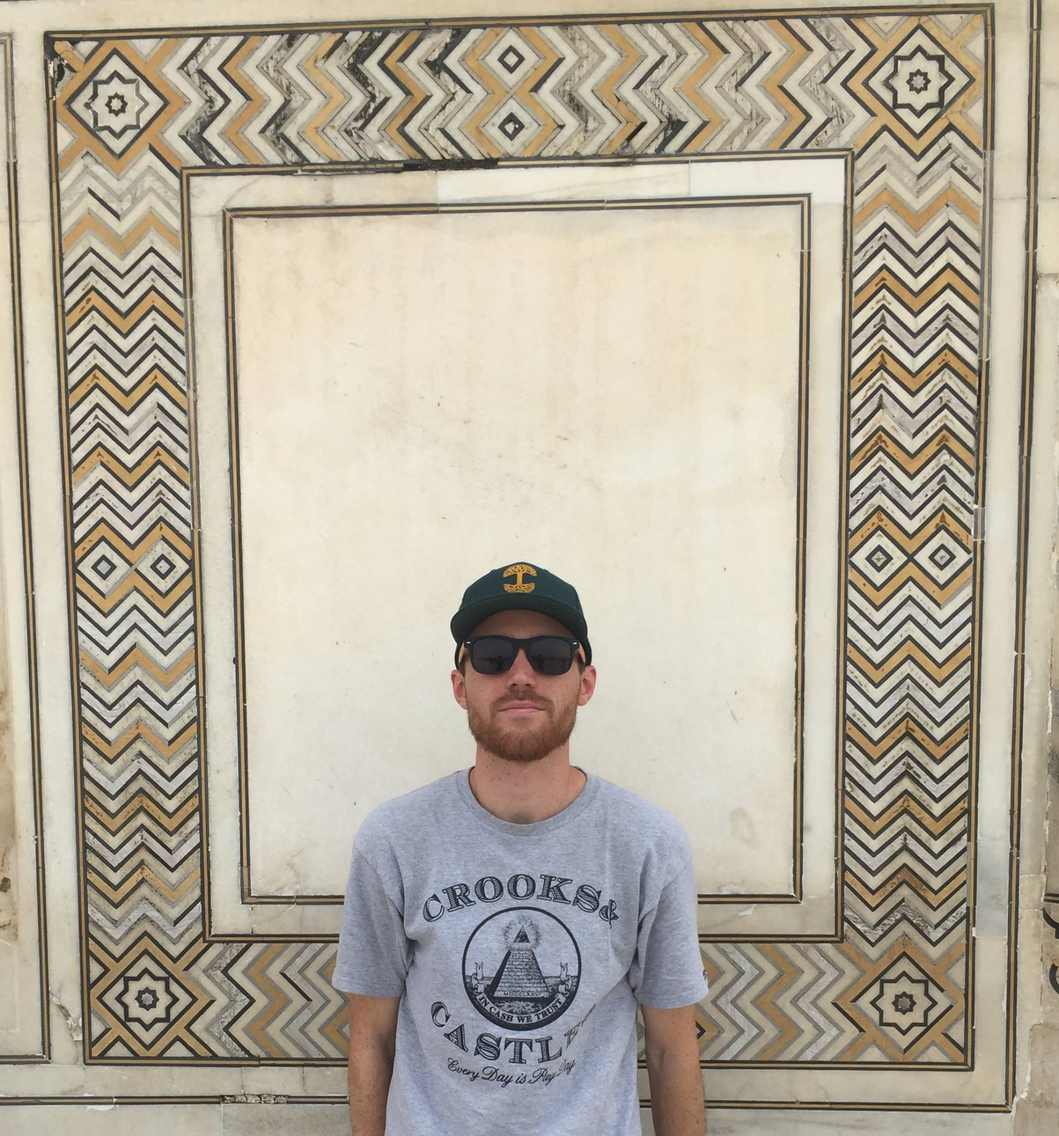
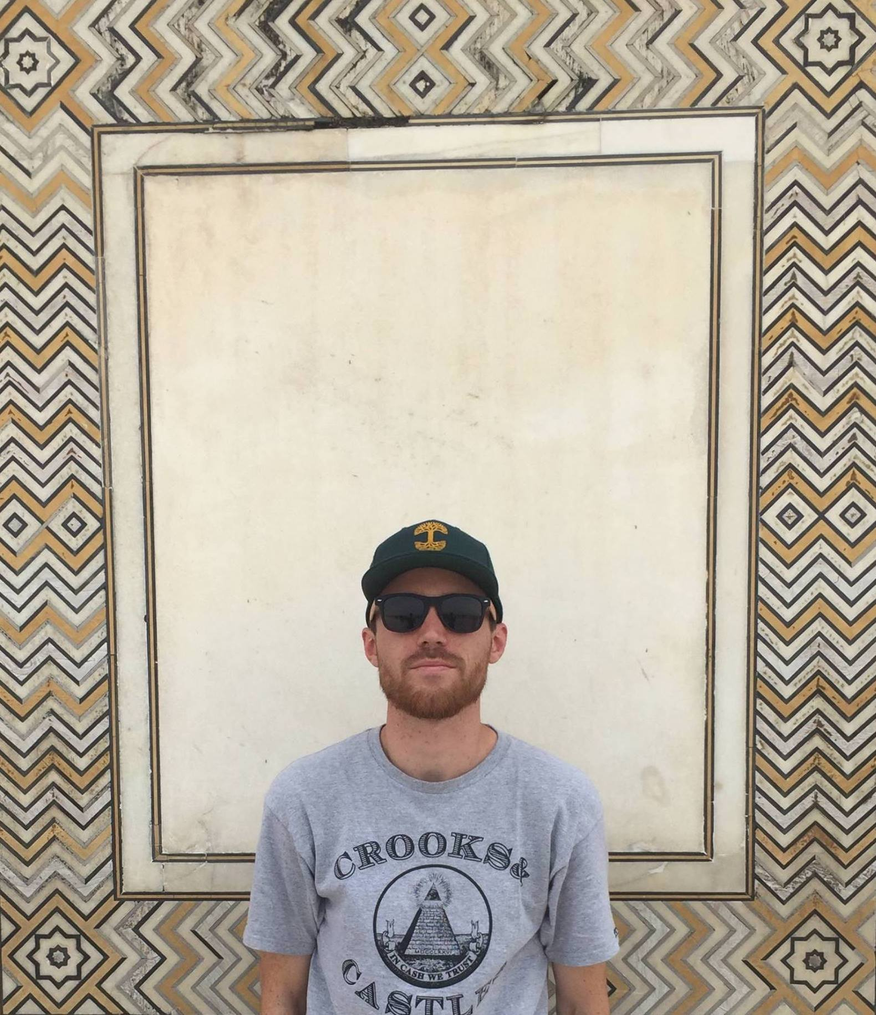
styling changes

diff --git a/src/components/Portfolio.vue b/src/components/Portfolio.vue
@@ -5,10 +5,8 @@
         <img :src="project.image" class='img'/>
       </div>
       <h2>{{ project.title }}</h2>
-        {{ project.description }}
-        <br><br>
-        <strong>Stack:</strong>
-        {{ project.stack }}
+        <p>{{ project.description }}</p>
+        <p>{{ project.stack }}</p>
     </div>
   </div>
 </template>
@@ -29,21 +27,21 @@ export default {
         MyBolus: {
           id: 2,
           title: 'My Bolus',
-          description: 'Personalized insulin dose calculator application for diabetics',
+          description: 'Insulin dose calculator for diabetics',
           stack: 'HTML, CSS, Javascript, React, Express, MongoDB',
           image: require('../images/bolus-calculator.png')
         },
         OpenRestaurant: {
           id: 3,
           title: 'Open Restaurant',
-          description: 'Restaurant review and reservation application',
+          description: 'Photos module for restaurant app',
           stack: ' HTML, CSS, Javascript, React, Styled-Components, Express, MongoDB, Faker, Jest, Enzyme',
           image: require('../images/open-restaurant.png')
         },
         SocialInn: {
           id: 4,
           title: 'Social Inn',
-          description: 'Room review and reservation application',
+          description: 'Scaled back end of housing app',
           stack: 'PostgreSQL, Cassandra, Express, Amazon Web Services, k6, New Relic',
           image: require('../images/social-inn.png')
         }
@@ -56,24 +54,33 @@ export default {
 <style scoped>
   h2 {
     margin: 10px 0px 10px 0px;
+    color: black;
   }
   .projects-wrapper {
     margin-top: 150px;
     margin-left: 100px;
-    position: fixed;
+    position: absolute;
   }
   .project {
     border: 1px solid;
     width: 300px;
-    background-color: white;
+    height: 300px;
+    background-color: white; opacity: .70;
     margin: 20px;
     padding: 10px;
+    float: left;
     display: inline-block;
+  }
+  .project:hover {
+    -webkit-transform: scale(1.01);
+    -ms-transform: scale(1.05);
+    transform: scale(1.05);
+    cursor: pointer;
   }
   .img-div {
     width: 100%;
     height: 150px;
-    border: 1px solid;
+    border: 1px solid black;
   }
   .img {
     width: 100%;
@@ -82,5 +89,6 @@ export default {
   p {
     font-size: 14px;
     line-height: normal;
+    color: black;
   }
 </style>

diff --git a/src/components/Home.vue b/src/components/Home.vue
@@ -1,9 +1,9 @@
 <template>
   <div id='home-wrapper'>
     <img :src='pic' id='pic'/>
-    <div id='titleSection'>
-      <h1 class='words'>{{ name }}</h1>
-      <h3 class='words'>{{ title }}</h3>
+    <div class='words-wrapper'>
+      <h1 class='words left'>{{ name }}</h1>
+      <h4 class='words right'>{{ title }}</h4>
     </div>
   </div>
 </template>
@@ -13,9 +13,9 @@ export default {
   name: 'Home',
   data () {
     return {
-      pic: require('../images/matt-taj.jpg'),
+      pic: require('../images/matt-violet.jpg'),
       title: "Software Engineer",
-      name: "Matthew Violet"
+      name: "Matt Violet"
     }
   }
 }
@@ -27,6 +27,15 @@ export default {
     margin-right: auto;
     width: 250px;
   }
+  h1 {
+    margin-top: 10px;
+    margin-bottom: 0;
+    text-align: center;
+  }
+  h4 {
+    margin: 0;
+    text-align: center;
+  }
   #pic {
     height: 200px;
     width: 200px;
@@ -35,25 +44,35 @@ export default {
     display: block;
     margin-left: auto;
     margin-right: auto;
-    animation-duration: 1s;
+    animation-duration: .75s;
     animation-name: slideDown;
   }
   #titleSection {
     text-align: center;
     width: 250px;
     margin-top: 10px;
-    animation-duration: 1s;
-    animation-name: slideUp;
   }
   .words {
-    margin: 0px;
+    margin-top: 5;
+  }
+  .left {
+    animation-duration: .75s;
+    animation-name: slideLeft;
+  }
+  .right {
+    animation-duration: .75s;
+    animation-name: slideRight;
   }
   @keyframes slideDown {
-    from { transform: translateY(-1200px); }
+    from { transform: translateY(-500px); }
     to { transform: translateY(0px); }
   }
-  @keyframes slideUp {
-    from { transform: translateY(1200px); }
-    to { transform: translateY(0px); }
+  @keyframes slideRight {
+    from { transform: translateX(-1000px); }
+    to { transform: translateX(0px); }
+  }
+  @keyframes slideLeft {
+    from { transform: translateX(1000px); }
+    to { transform: translateX(0px); }
   }
 </style>

diff --git a/src/components/About.vue b/src/components/About.vue
@@ -1,11 +1,11 @@
 <template>
   <div class="about-wrapper">
-    <div class="left outer">
+    <div class="leftt outer">
       <div class="inner-left">
         <img :src="aboutPic" class="aboutPic"/>
       </div>
     </div>
-    <div class="right outer">
+    <div class="rightt outer">
       <div class="inner-right">
         <h1>about me</h1>
         <p>
@@ -25,8 +25,7 @@ export default {
   name: 'About',
   data() {
     return {
-      aboutPic: require('../images/matt-violet.jpg'),
-      bio: ''
+      aboutPic: require('../images/matt-taj.jpg'),
     }
   }
 }
@@ -34,8 +33,9 @@ export default {
 
 <style scoped>
   h1 {
-    font-size: 40px;
+    font-size: 50px;
     margin: 0;
+    text-align: left;
   }
   p {
     font-size: 14px;
@@ -50,20 +50,18 @@ export default {
     bottom: 0;
     overflow-x: hidden;
   }
-  .left {
+  .leftt {
     left: 0;
-    background-color: gainsboro;
   }
-  .right {
+  .rightt {
     right: 0;
-    background-color: gainsboro;
   }
   .inner-left {
     bottom: 100px;
     position: absolute;
     top: 50%;
     left: 50%;
-    transform: translate(-45%, -80%);
+    transform: translate(-50%, -80%);
     text-align: left;
     width: 80%;
   }
@@ -72,12 +70,13 @@ export default {
     position: absolute;
     top: 50%;
     left: 50%;
-    transform: translate(-90%, -85%);
+    transform: translate(-85%, -85%);
     text-align: left;
   }
   .aboutPic {
-    width: 300px;
+    width: 350px;
     float: right;
     border: 1px solid;
+    transform: rotate(6deg);
   }
 </style>

diff --git a/src/components/MenuBar.vue b/src/components/MenuBar.vue
@@ -52,25 +52,25 @@ export default {
   }
   .menu-option {
     animation-duration: 1s;
-    animation-name: slideRight;
     color: white;
     display: inline-block;
-    width: 100px;
     height: 100%;
+    padding-left: 25px;
+    padding-right: 25px;
   }
   p {
     line-height: 40px;
     font-size: 20px;
   }
   .menu-option:hover {
-    color: slateblue;
     cursor: pointer;
+    transform: scale(1.2);
   }
   .currentPg {
     color: slateblue;
   }
   @keyframes slideRight {
-    from { transform: translateX(-1200px); }
+    from { transform: translateX(-900px); }
     to { transform: translateX(0px); }
   }
 </style>

diff --git a/src/App.vue b/src/App.vue
@@ -5,6 +5,7 @@
     <About v-if="about"/>
     <Portfolio v-if='portfolio'/>
     <Contact v-if='contact'/>
+    <img src="./images/oakland-sunset.jpg" class="oakland-bg"/>
   </div>
 </template>
 
@@ -52,7 +53,13 @@ export default {
     width: 100%;
     margin: 0;
     font-family: Arial, Helvetica, sans-serif;
-    background-color: gainsboro;
+    /* background-color: black; */
+  }
+  .oakland-bg {
+    opacity: .85;
+    background-position: right top;
+    position: fixed;
+    z-index: -1;
   }
   .components {
     width: 100%;

diff --git a/src/components/Contact.vue b/src/components/Contact.vue
@@ -1,7 +1,6 @@
 <template>
   <div class="contact-wrapper">
     <div class='centered'>
-      <h1>Contact</h1>
       <p>{{ email }}</p>
       <p>{{ github }}</p>
       <p>{{ linkedin }}</p>
@@ -23,9 +22,6 @@ export default {
 </script>
 
 <style scoped>
-  h1 {
-    font-size: 40px;
-  }
   p {
     font-size: 14px;
     line-height: normal;
